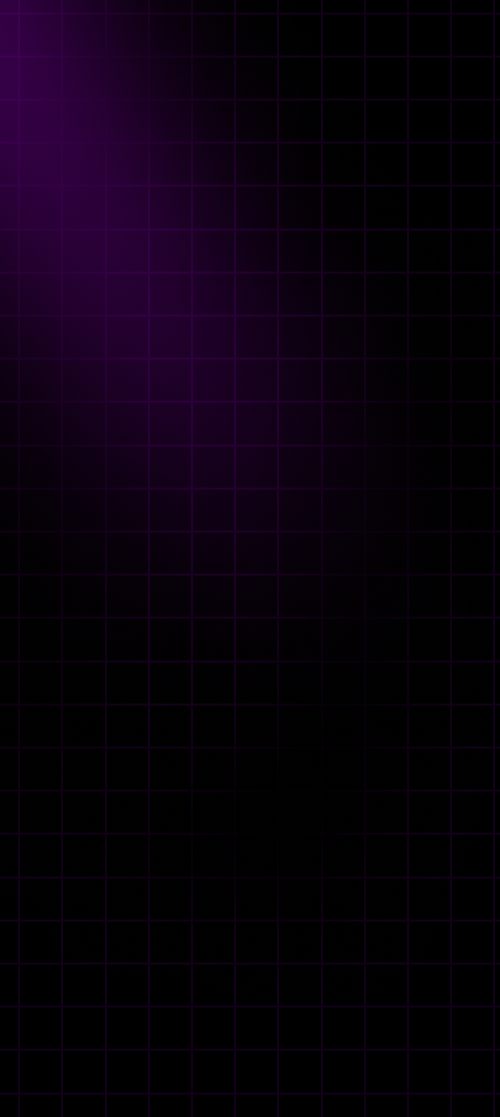
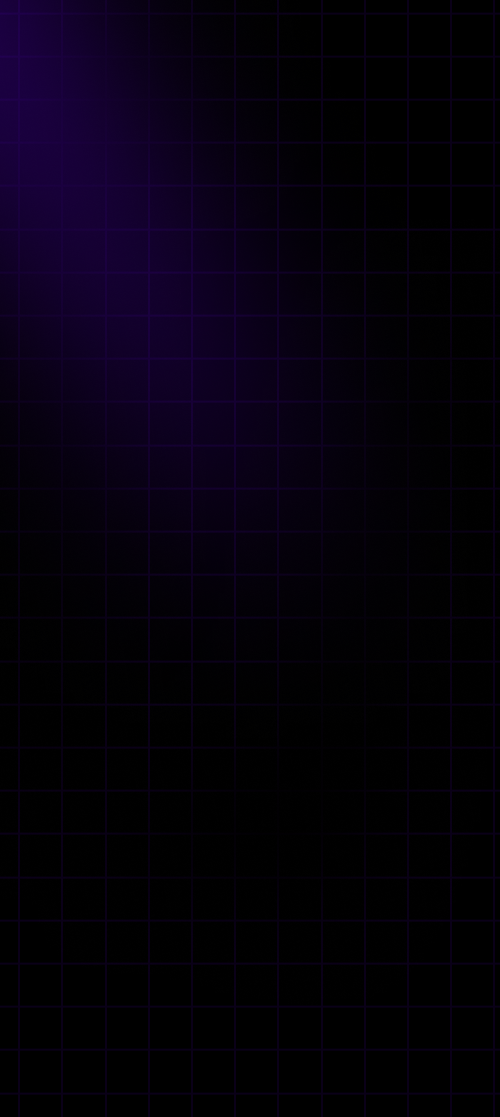
color pallate update

Changed region(s): [[0.0, 0.0, 0.09, 0.1826], [0.12, 0.0913, 0.15, 0.1826], [0.21, 0.1826, 0.24, 0.2131]]

diff --git a/src/components/Dock.jsx b/src/components/Dock.jsx
@@ -13,7 +13,7 @@ const iconVariants = {
 };
 
 const Separator = () => (
-  <div className="w-px h-6 bg-[#C000FF]"></div>
+  <div className="w-px h-6 bg-[#6200ee]"></div>
 );
 
 const Dock = () => {
@@ -26,7 +26,7 @@ const Dock = () => {
   return (
     <div>
       <motion.div
-        className="h-[3rem] fixed right-6 top-10 transform -translate-x-1/2 bg-[#C000FF] shadow-lg rounded-full px-4 py-2 flex items-center justify-between space-x-2 z-50 md:hidden  "
+        className="h-[3rem] fixed right-6 top-10 transform -translate-x-1/2 bg-[#6200ee] shadow-lg rounded-full px-4 py-2 flex items-center justify-between space-x-2 z-50 md:hidden  "
         transition={{ duration: 0.3 }}
       >
         
@@ -169,7 +169,7 @@ const Dock = () => {
           animate="visible"
           transition={{ delay: 0.2, duration: 0.3 }}
         >
-          <Link to='Hero' spy={true} smooth={true} offset={-100} duration={500}><div className=' py-2 px-3 rounded-full flex items-center justify-centert text-white text-base hover:text-[#C000FF] transition-all duration-200 ease-out '><span className='text-base '>Home</span></div></Link>
+          <Link to='Hero' spy={true} smooth={true} offset={-100} duration={500}><div className=' py-2 px-3 rounded-full flex items-center justify-centert text-white text-base hover:text-[#6200ee] transition-all duration-200 ease-out '><span className='text-base '>Home</span></div></Link>
         </motion.div>
        
         <motion.div
@@ -179,7 +179,7 @@ const Dock = () => {
           animate="visible"
           transition={{ delay: 0.3, duration: 0.3 }}
         >
-          <Link to='About' spy={true} smooth={true} offset={0} duration={1000}><div className=' py-2 px-3 rounded-full flex items-center justify-centert text-white text-base hover:text-[#C000FF] transition-all duration-200 ease-out'><span className='text-base '>About</span></div></Link>
+          <Link to='About' spy={true} smooth={true} offset={0} duration={1000}><div className=' py-2 px-3 rounded-full flex items-center justify-centert text-white text-base hover:text-[#6200ee] transition-all duration-200 ease-out'><span className='text-base '>About</span></div></Link>
         </motion.div>
 
 
@@ -190,7 +190,7 @@ const Dock = () => {
           animate="visible"
           transition={{ delay: 0.4, duration: 0.3 }}
         >
-          <Link to='skills' spy={true} smooth={true} offset={0} duration={1000}><div className=' py-2 px-3 rounded-full flex items-center justify-centert text-white text-base hover:text-[#C000FF] transition-all duration-200 ease-out'><span className='text-base '>Skills</span></div></Link>
+          <Link to='skills' spy={true} smooth={true} offset={0} duration={1000}><div className=' py-2 px-3 rounded-full flex items-center justify-centert text-white text-base hover:text-[#6200ee] transition-all duration-200 ease-out'><span className='text-base '>Skills</span></div></Link>
         </motion.div>
        
 
@@ -202,7 +202,7 @@ const Dock = () => {
           animate="visible"
           transition={{ delay: 0.5, duration: 0.3 }}
         >
-          <Link to='Projects' spy={true} smooth={true} offset={-100} duration={1000}><div className='py-2 px-3 rounded-full flex items-center justify-centert text-white text-base hover:text-[#C000FF] transition-all duration-200 ease-out'><span className='text-base '>Projects</span></div></Link>
+          <Link to='Projects' spy={true} smooth={true} offset={-100} duration={1000}><div className='py-2 px-3 rounded-full flex items-center justify-centert text-white text-base hover:text-[#6200ee] transition-all duration-200 ease-out'><span className='text-base '>Projects</span></div></Link>
         </motion.div>
 
         <motion.div
@@ -212,7 +212,7 @@ const Dock = () => {
           animate="visible"
           transition={{ delay: 0.6, duration: 0.3 }}
         >
-          <Link to='Exp' spy={true} smooth={true} offset={-100} duration={1000} className='w-fit'><div className='w-full py-2 px-3 rounded-full flex items-center justify-centert text-white text-base hover:text-[#C000FF] transition-all duration-200 ease-out'>Work Experience</div></Link>
+          <Link to='Exp' spy={true} smooth={true} offset={-100} duration={1000} className='w-fit'><div className='w-full py-2 px-3 rounded-full flex items-center justify-centert text-white text-base hover:text-[#6200ee] transition-all duration-200 ease-out'>Work Experience</div></Link>
         </motion.div>
 
 
@@ -223,7 +223,7 @@ const Dock = () => {
           animate="visible"
           transition={{ delay: 0.6, duration: 0.3 }}
         >
-          <Link to='Exp' spy={true} smooth={true} offset={-100} duration={1000} className='w-fit'><div className='w-full py-2 px-3 rounded-full flex items-center justify-centert text-white text-base hover:text-[#C000FF] transition-all duration-200 ease-out'>Work Experience</div></Link>
+          <Link to='Exp' spy={true} smooth={true} offset={-100} duration={1000} className='w-fit'><div className='w-full py-2 px-3 rounded-full flex items-center justify-centert text-white text-base hover:text-[#6200ee] transition-all duration-200 ease-out'>Work Experience</div></Link>
         </motion.div> */}
 
 
@@ -237,7 +237,7 @@ const Dock = () => {
         >
           <a href="https://github.com/Harsh-Nikam07" target='_blank'>
             <div className="relative group">
-            <div className="w-10 h-10 border-2 border-[#C000FF] flex justify-center items-center rounded-full hover:bg-[#C000FF]">
+            <div className="w-10 h-10 border-2 border-[#6200ee] flex justify-center items-center rounded-full hover:bg-[#6200ee]">
               <TbBrandGithubFilled className="text-white" />
             </div>
             <div className="absolute top-16 w-fit mb-2 left-5 transform -translate-x-1/2 opacity-0 group-hover:opacity-100 bg-black text-white text-xs rounded py-1 px-2 pointer-events-none transition-opacity duration-300">
@@ -259,7 +259,7 @@ const Dock = () => {
         >
           <a href="https://github.com/Harsh-Nikam07" target='_blank'>
             <div className="relative group">
-            <div className="w-8 h-8 border-2 border-[#C000FF] flex justify-center items-center rounded-full hover:bg-[#C000FF]">
+            <div className="w-8 h-8 border-2 border-[#6200ee] flex justify-center items-center rounded-full hover:bg-[#6200ee]">
               <FaLinkedinIn className="text-white w-4 h-4" />
             </div>
             <div className="absolute top-16 w-fit mb-2 left-5 transform -translate-x-1/2 opacity-0 group-hover:opacity-100 bg-black text-white text-xs rounded py-1 px-2 pointer-events-none transition-opacity duration-300">
@@ -282,7 +282,7 @@ const Dock = () => {
         >
           <a href="https://github.com/Harsh-Nikam07" target='_blank'>
             <div className="relative group">
-            <div className="w-8 h-8 border-2 border-[#C000FF] flex justify-center items-center rounded-full hover:bg-[#C000FF]">
+            <div className="w-8 h-8 border-2 border-[#6200ee] flex justify-center items-center rounded-full hover:bg-[#6200ee]">
               <FaDribbble className="text-white w-4 h-4" />
             </div>
             <div className="absolute top-16 w-fit mb-2 left-5 transform -translate-x-1/2 opacity-0 group-hover:opacity-100 bg-black text-white text-xs rounded py-1 px-2 pointer-events-none transition-opacity duration-300">

diff --git a/src/components/Exp.jsx b/src/components/Exp.jsx
@@ -14,7 +14,7 @@ const Exp = () => {
           </div>
 
           <div className='expParent w-full h-fit flex justify-center items-center flex-wrap flex-col gap-12'>
-            <div className='w-full md:w-3/5 p-3 flex justify-center items-center flex-col flex-grow gap-0 bg-black text-white border border-black hover:border hover:border-[#C000FF] rounded-lg transition-all duration-1200 ease-out'>
+            <div className='w-full md:w-3/5 p-3 flex justify-center items-center flex-col flex-grow gap-0 bg-black text-white border border-black hover:border hover:border-[#6200ee] rounded-lg transition-all duration-1200 ease-out'>
               <div className='w-full text-lg font-medium p-2'>
                 <span className=''>Front end Web Developer</span>
               </div>
@@ -24,7 +24,7 @@ const Exp = () => {
                   Zappkode Solutions
                 </div>
                 <div className='companyName'>
-                  Jan 2024 - Present
+                  Jan 2024 - Aug 2024
                 </div>
               </div>
 
@@ -38,31 +38,31 @@ const Exp = () => {
               </div>
 
               <div className='skills w-full p-2 flex justify-start items-center flex-row flex-wrap gap-2'>
-                <div className='flex justify-center items-center gap-2 py-1 px-3 text-xs rounded-full font-normal text-white border-2 border-[#C000FF] hover:bg-[#C000FF] '>
+                <div className='flex justify-center items-center gap-2 py-1 px-3 text-xs rounded-full font-normal text-white border-2 border-[#6200ee] hover:bg-[#6200ee] '>
                   <span> HTML </span>
                 </div>
-                <div className='flex justify-center items-center gap-2 py-1 px-3 text-xs rounded-full font-normal text-white border-2 border-[#C000FF] hover:bg-[#C000FF]'>
+                <div className='flex justify-center items-center gap-2 py-1 px-3 text-xs rounded-full font-normal text-white border-2 border-[#6200ee] hover:bg-[#6200ee]'>
                   <span> CSS </span>
                 </div>
-                <div className='flex justify-center items-center gap-2 py-1 px-3 text-xs rounded-full font-normal text-white border-2 border-[#C000FF] hover:bg-[#C000FF]'>
+                <div className='flex justify-center items-center gap-2 py-1 px-3 text-xs rounded-full font-normal text-white border-2 border-[#6200ee] hover:bg-[#6200ee]'>
                   <span> JavaScript </span>
                 </div>
-                <div className='flex justify-center items-center gap-2 py-1 px-3 text-xs rounded-full font-normal text-white border-2 border-[#C000FF] hover:bg-[#C000FF]'>
+                <div className='flex justify-center items-center gap-2 py-1 px-3 text-xs rounded-full font-normal text-white border-2 border-[#6200ee] hover:bg-[#6200ee]'>
                   <span> Spline </span>
                 </div>
-                <div className='flex justify-center items-center gap-2 py-1 px-3 text-xs rounded-full font-normal text-white border-2 border-[#C000FF] hover:bg-[#C000FF]'>
+                <div className='flex justify-center items-center gap-2 py-1 px-3 text-xs rounded-full font-normal text-white border-2 border-[#6200ee] hover:bg-[#6200ee]'>
                   <span> Figma </span>
                 </div>
-                <div className='flex justify-center items-center gap-2 py-1 px-3 text-xs rounded-full font-normal text-white border-2 border-[#C000FF] hover:bg-[#C000FF]'>
+                <div className='flex justify-center items-center gap-2 py-1 px-3 text-xs rounded-full font-normal text-white border-2 border-[#6200ee] hover:bg-[#6200ee]'>
                   <span> Flutter </span>
                 </div>
-                <div className='flex justify-center items-center gap-2 py-1 px-3 text-xs rounded-full font-normal text-white border-2 border-[#C000FF] hover:bg-[#C000FF]'>
+                <div className='flex justify-center items-center gap-2 py-1 px-3 text-xs rounded-full font-normal text-white border-2 border-[#6200ee] hover:bg-[#6200ee]'>
                   <span> Dart </span>
                 </div>
               </div>
             </div>
 
-            <div className='w-full md:w-3/5 p-3 flex justify-center items-center flex-col flex-grow gap-0 bg-black text-white border border-black hover:border hover:border-[#C000FF] rounded-lg transition-all duration-1200 ease-out'>
+            <div className='w-full md:w-3/5 p-3 flex justify-center items-center flex-col flex-grow gap-0 bg-black text-white border border-black hover:border hover:border-[#6200ee] rounded-lg transition-all duration-1200 ease-out'>
               <div className='w-full text-lg font-medium p-2'>
                 <span className=''>Front end developer Intern</span>
               </div>
@@ -85,19 +85,19 @@ const Exp = () => {
               </div>
 
               <div className='skills w-full p-2 flex justify-start items-center flex-row flex-wrap gap-2'>
-                <div className='flex justify-center items-center gap-2 py-1 px-3 text-xs rounded-full font-normal text-white border-2 border-[#C000FF] hover:bg-[#C000FF]'>
+                <div className='flex justify-center items-center gap-2 py-1 px-3 text-xs rounded-full font-normal text-white border-2 border-[#6200ee] hover:bg-[#6200ee]'>
                   <span> HTML </span>
                 </div>
-                <div className='flex justify-center items-center gap-2 py-1 px-3 text-xs rounded-full font-normal text-white border-2 border-[#C000FF] hover:bg-[#C000FF]'>
+                <div className='flex justify-center items-center gap-2 py-1 px-3 text-xs rounded-full font-normal text-white border-2 border-[#6200ee] hover:bg-[#6200ee]'>
                   <span> CSS </span>
                 </div>
-                <div className='flex justify-center items-center gap-2 py-1 px-3 text-xs rounded-full font-normal text-white border-2 border-[#C000FF] hover:bg-[#C000FF]'>
+                <div className='flex justify-center items-center gap-2 py-1 px-3 text-xs rounded-full font-normal text-white border-2 border-[#6200ee] hover:bg-[#6200ee]'>
                   <span> Bootstrap </span>
                 </div>
-                <div className='flex justify-center items-center gap-2 py-1 px-3 text-xs rounded-full font-normal text-white border-2 border-[#C000FF] hover:bg-[#C000FF]'>
+                <div className='flex justify-center items-center gap-2 py-1 px-3 text-xs rounded-full font-normal text-white border-2 border-[#6200ee] hover:bg-[#6200ee]'>
                   <span> Responsive Design  </span>
                 </div>
-                <div className='flex justify-center items-center gap-2 py-1 px-3 text-xs rounded-full font-normal text-white border-2 border-[#C000FF] hover:bg-[#C000FF]'>
+                <div className='flex justify-center items-center gap-2 py-1 px-3 text-xs rounded-full font-normal text-white border-2 border-[#6200ee] hover:bg-[#6200ee]'>
                   <span> Figma </span>
                 </div>
               </div>

diff --git a/src/components/Hero.jsx b/src/components/Hero.jsx
@@ -65,7 +65,7 @@ const Hero = () => {
                                     initial="hidden"
                                     animate="visible"
                                     transition={{ delay: 0.1, duration: 0.3 }}
-                                    className='contactBtn flex justify-center items-center gap-2  py-2 px-3 text-sm rounded-full  bg-[#C000FF] text-white font-semibold '>
+                                    className='contactBtn flex justify-center items-center gap-2  py-2 px-3 text-sm rounded-full  bg-[#6200ee] text-white font-semibold '>
                                         See Projects
                                         <HiMiniArrowLongDown />
                                 </motion.div>
@@ -77,7 +77,7 @@ const Hero = () => {
                         animate="visible"
                         transition={{ delay: 0.2, duration: 0.3 }}
                         className='resumeBtn '>
-                        <button className='flex justify-center items-center gap-2 py-2 px-3 text-sm rounded-full font-normal   bg-black border-2 border-[#C000FF] text-white  hover:border-[#bf00ff00]  hover:bg-[#c000ff] transition-all duration-200 ease-out'
+                        <button className='flex justify-center items-center gap-2 py-2 px-3 text-sm rounded-full font-normal   bg-black border-2 border-[#6200ee] text-white  hover:border-[#bf00ff00]  hover:bg-[#6200ee] transition-all duration-200 ease-out'
                         onClick={onbuttonClick}
                         >
                             Download CV <AiOutlineDownload className='text-lg'/> 
@@ -94,13 +94,13 @@ const Hero = () => {
                         animate="visible"
                         transition={{ delay: 0.3, duration: 0.3 }}
                         className='socials flex justify-center items-center gap-3  '>
-                        <a href="https://github.com/Harsh-Nikam07" target='_blank' className='w-10 h-10 border-2 border-[#C000FF] flex justify-center items-center rounded-full hover:bg-[#C000FF]'>
+                        <a href="https://github.com/Harsh-Nikam07" target='_blank' className='w-10 h-10 border-2 border-[#6200ee] flex justify-center items-center rounded-full hover:bg-[#6200ee]'>
                             <TbBrandGithubFilled className="text-white" />
                         </a>
-                        <a href="https://www.linkedin.com/in/harshnikam/" target='_blank' className='w-10 h-10 border-2 border-[#C000FF] flex justify-center items-center rounded-full hover:bg-[#C000FF]'>
+                        <a href="https://www.linkedin.com/in/harshnikam/" target='_blank' className='w-10 h-10 border-2 border-[#6200ee] flex justify-center items-center rounded-full hover:bg-[#6200ee]'>
                             <FaLinkedinIn className="text-white w-4 h-4" />
                         </a>
-                        <a href="https://dribbble.com/Harsh_Nikam" target='_blank' className='w-10 h-10 border-2 border-[#C000FF] flex justify-center items-center rounded-full hover:bg-[#C000FF]'>
+                        <a href="https://dribbble.com/Harsh_Nikam" target='_blank' className='w-10 h-10 border-2 border-[#6200ee] flex justify-center items-center rounded-full hover:bg-[#6200ee]'>
                             <FaDribbble className="text-white w-4 h-4" />
                         </a>
                     </motion.div>

diff --git a/src/components/ComProjects/DevProjects/DevProject1.jsx b/src/components/ComProjects/DevProjects/DevProject1.jsx
@@ -79,7 +79,7 @@ const DevProjects = () => {
                 key={index}
                 href={project.href}
                 target='_blank'
-                className='w-full md:w-[34rem] h-fit flex justify-between items-center flex-row flex-wrap gap-5 bg-black p-5 border border-black text-white  hover:border hover:border-[#C000FF] rounded-3xl transition-all duration-1200 ease-out'
+                className='w-full md:w-[34rem] h-fit flex justify-between items-center flex-row flex-wrap gap-5 bg-black p-5 border border-black text-white  hover:border hover:border-[#6200ee] rounded-3xl transition-all duration-1200 ease-out'
                 initial="rest"
                 whileHover="hover"
                 animate="rest"
@@ -129,7 +129,7 @@ const DevProjects = () => {
                   {
                     project.tech.map((tech, techIndex) => {
                       return(
-                        <div key={techIndex} className='skill-heroS  flex justify-center items-center gap-2 py-1 px-3 text-base rounded-full font-normal text-white border-2 border-[#C000FF] hover:bg-[#C000FF]'>
+                        <div key={techIndex} className='skill-heroS  flex justify-center items-center gap-2 py-1 px-3 text-base rounded-full font-normal text-white border-2 border-[#6200ee] hover:bg-[#6200ee]'>
                           <span className='text-xs'>{tech}</span>
                         </div>
                       );

diff --git a/src/components/About.jsx b/src/components/About.jsx
@@ -40,7 +40,7 @@ const About = () => {
                 </div>
                 <div className='devDesc w-full flex justify-center items-center text-justify'>
                 <span className='leading-8 text-white'>
-                I&apos;m Harsh Nikam, a <span className='border-b-2 font-medium border-purple-500 '>Frontend Developer</span> and <span className='border-b-2 font-medium border-purple-500 ' >UI/UX Designer</span> dedicated to crafting intuitive and engaging web applications. With strong expertise in<span className='bg-[#C000FF] p-[0.2rem] px-[1rem] rounded-full mr-1 ml-1 font-medium'>Developing and Designing Cutting Edge Web Solutions</span> I excel in solving complex problems with clean, efficient code and innovative design solutions.
+                I&apos;m Harsh Nikam, a <span className='border-b-2 font-medium border-purple-500 '>Frontend Developer</span> and <span className='border-b-2 font-medium border-purple-500 ' >UI/UX Designer</span> dedicated to crafting intuitive and engaging web applications. With strong expertise in<span className='bg-[#6200ee] p-[0.2rem] px-[1rem] rounded-full mr-1 ml-1 font-medium'>Developing and Designing Cutting Edge Web Solutions</span> I excel in solving complex problems with clean, efficient code and innovative design solutions.
                 </span>
             </div>
 

diff --git a/src/components/ComProjects/Projects.jsx b/src/components/ComProjects/Projects.jsx
@@ -73,7 +73,7 @@ const Projects = () => {
             {['Development', 'UI / UX Design',].map((tab, index) => (
               <motion.button
                 key={tab}
-                className={`tabButton ${activeTab === tab ? 'active' : ''} px-4 py-2 rounded-lg transition-colors duration-300 ${activeTab === tab ? 'bg-[#C000FF] text-white' : 'bg-black border-2 border-[#C000FF] text-white hover:bg-[#C000FF]'}`}
+                className={`tabButton ${activeTab === tab ? 'active' : ''} px-4 py-2 rounded-lg transition-colors duration-300 ${activeTab === tab ? 'bg-[#6200ee] text-white' : 'bg-black border-2 border-[#6200ee] text-white hover:bg-[#6200ee]'}`}
                 onClick={() => setActiveTab(tab)}
                 
                 whileTap={{ scale: 0.9 }}

diff --git a/src/assets/css/main.css b/src/assets/css/main.css
@@ -9,12 +9,12 @@ body::-webkit-scrollbar-track {
 }
 
 body::-webkit-scrollbar-thumb {
-  background: linear-gradient(306deg, rgba(238,187,255,1) 0%, rgba(192,0,255,1) 100%);
+  background: linear-gradient(306deg, rgba(238,187,255,1) 0%, #6200ee 100%);
   border-radius: 10px; /* Rounded thumb */
 }
 
 body::-webkit-scrollbar-thumb:hover {
-  background: linear-gradient(306deg, rgba(238,187,255,1) 0%, rgba(192,0,255,1) 80%);
+  background: linear-gradient(306deg, rgba(238,187,255,1) 0%, #6200ee 80%);
 }
 
 
@@ -32,7 +32,7 @@ body::-webkit-scrollbar-thumb:hover {
 
 
 .bg-sub{
-  background: url('../bgv4.png');
+  background: url('../bgv5.png');
   
 }
 

diff --git a/src/assets/css/hero.css b/src/assets/css/hero.css
@@ -27,7 +27,7 @@
     font-style: normal;
     font-weight: 600;
     line-height: normal;
-    background: linear-gradient(90deg, #FFF 0%, #C000FF 100%);
+    background: linear-gradient(90deg, #FFF 0%, #6200ee 100%);
     background-clip: text;
     -webkit-background-clip: text;
     -webkit-text-fill-color: transparent;
@@ -100,7 +100,7 @@
     border-radius: 50%;  */
     content: "";
     display: block;
-    background: conic-gradient(transparent 270deg, #C000FF, transparent);
+    background: conic-gradient(transparent 270deg, #6200ee, transparent);
     position: absolute;
     left: 50%;
     top: 50%;

diff --git a/src/components/Skills.jsx b/src/components/Skills.jsx
@@ -65,7 +65,7 @@ const Skills = () => {
               <motion.div
                 key={index}
                 variants={skillVariants}
-                className='skill-heroS flex justify-center items-center gap-2 py-1 px-3 text-base rounded-full font-normal text-white border-2 border-[#C000FF] hover:bg-[#C000FF] '
+                className='skill-heroS flex justify-center items-center gap-2 py-1 px-3 text-base rounded-full font-normal text-white border-2 border-[#6200ee] hover:bg-[#6200ee] '
               >
                 <span>{skill.name}</span>
               </motion.div>
